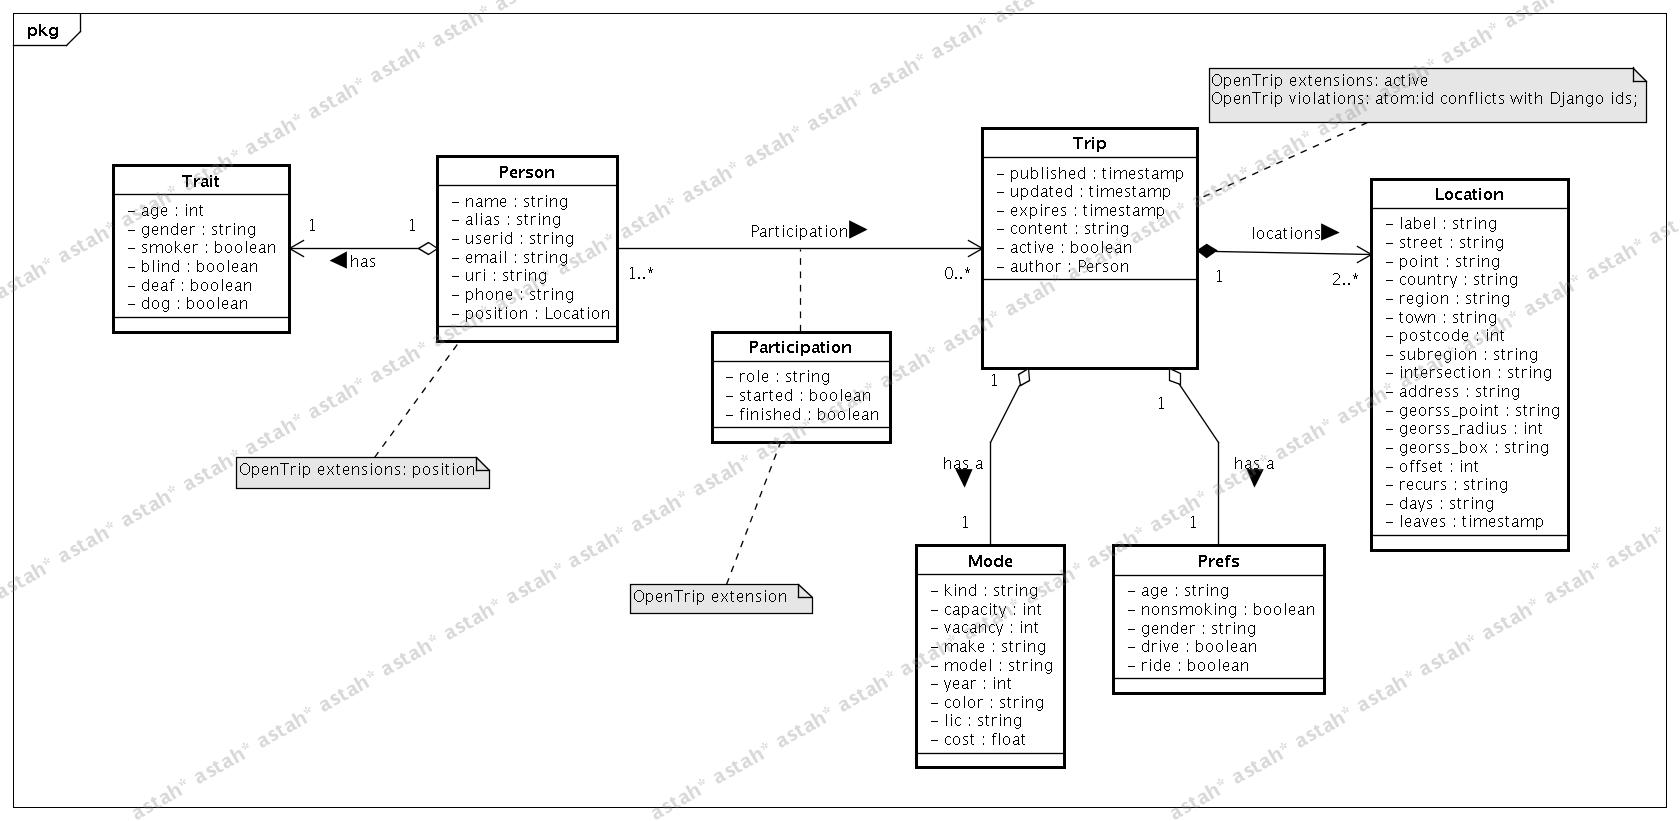
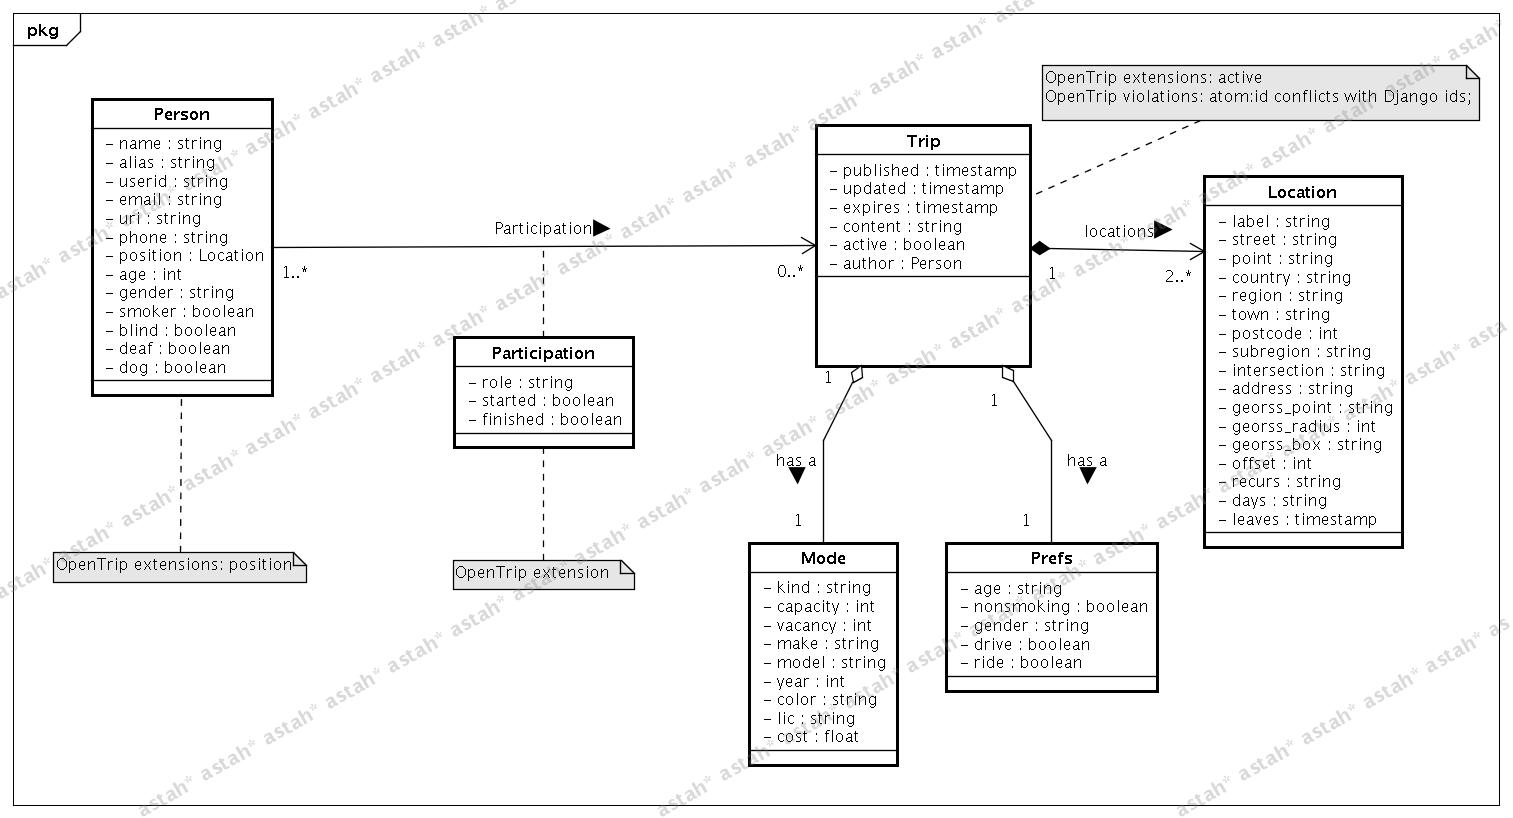
bug corrected, added models in admin interface, exported new class diagram

diff --git a/server/models.py b/server/models.py
@@ -99,6 +99,14 @@ class Person(models.Model):
     blind = models.BooleanField(default=False) # OPT
     deaf = models.BooleanField(default=False) # OPT
     dog = models.BooleanField(default=False) # OPT
+    
+    def save(self, force_insert=False, force_update=False):
+        """
+        Populates redundant fields
+        """
+        if self.address == "" and self.georss_point == "":
+            raise IntegrityError('either address or georss_point must have a value')
+        super(Location, self).save(force_insert, force_update) # Call the "real" save() method.
 
     
 class Mode(models.Model):
@@ -126,8 +134,8 @@ class Prefs(models.Model):
     age = models.CharField(max_length=50,blank=True) # OPT
     nonsmoking = models.BooleanField(blank=True) # OPT
     gender = models.CharField(max_length=1, choices=GENDER_CHOICES,blank=True) # OPT
-    drive = models.BooleanField(default=False,blank=True,null=True) # OPT
-    ride = models.BooleanField(default=False,blank=True,null=True) # OPT
+    drive = models.BooleanField(default=False) # OPT
+    ride = models.BooleanField(default=False) # OPT
 
 
 class Trip(models.Model):

diff --git a/urls.py b/urls.py
@@ -1,8 +1,8 @@
 from django.conf.urls.defaults import *
 
 # Uncomment the next two lines to enable the admin:
-# from django.contrib import admin
-# admin.autodiscover()
+from django.contrib import admin
+admin.autodiscover()
 
 urlpatterns = patterns('',
     # Example:
@@ -13,7 +13,7 @@ urlpatterns = patterns('',
     # (r'^admin/doc/', include('django.contrib.admindocs.urls')),
 
     # Uncomment the next line to enable the admin:
-    # (r'^admin/', include(admin.site.urls)),
+    (r'^admin/', include(admin.site.urls)),
     (r'^RPC2$', 'dycapo.rpc4django.views.serve_rpc_request'),
 
 )

diff --git a/server/admin.py b/server/admin.py
@@ -1,5 +1,9 @@
 from django.contrib import admin
-from models import Book, Author
+from models import Location, Person, Mode, Prefs, Trip, Participation
 
-admin.site.register(Author)
-admin.site.register(Book)
+admin.site.register(Location)
+admin.site.register(Person)
+admin.site.register(Mode)
+admin.site.register(Prefs)
+admin.site.register(Trip)
+admin.site.register(Participation)

diff --git a/settings.py b/settings.py
@@ -71,6 +71,8 @@ TEMPLATE_DIRS = (
     # Don't forget to use absolute paths, not relative paths.
 )
 
+AUTH_PROFILE_MODULE = 'server.Person'
+
 INSTALLED_APPS = (
     'django.contrib.auth',
     'django.contrib.contenttypes',
